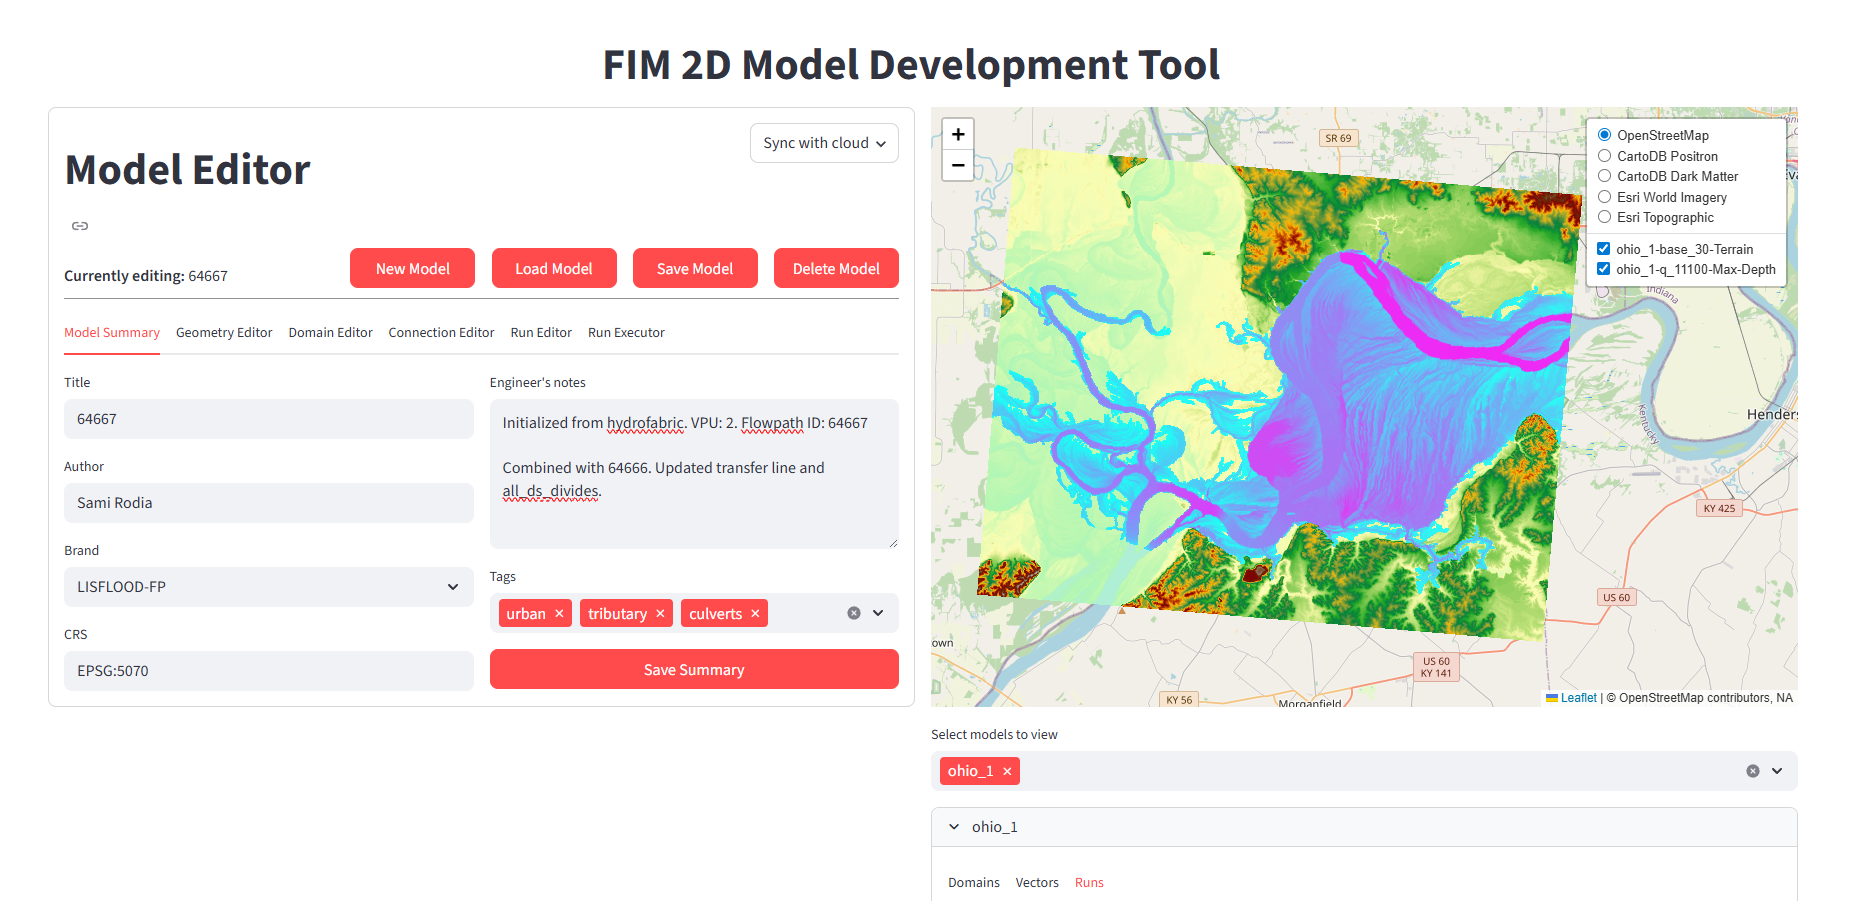
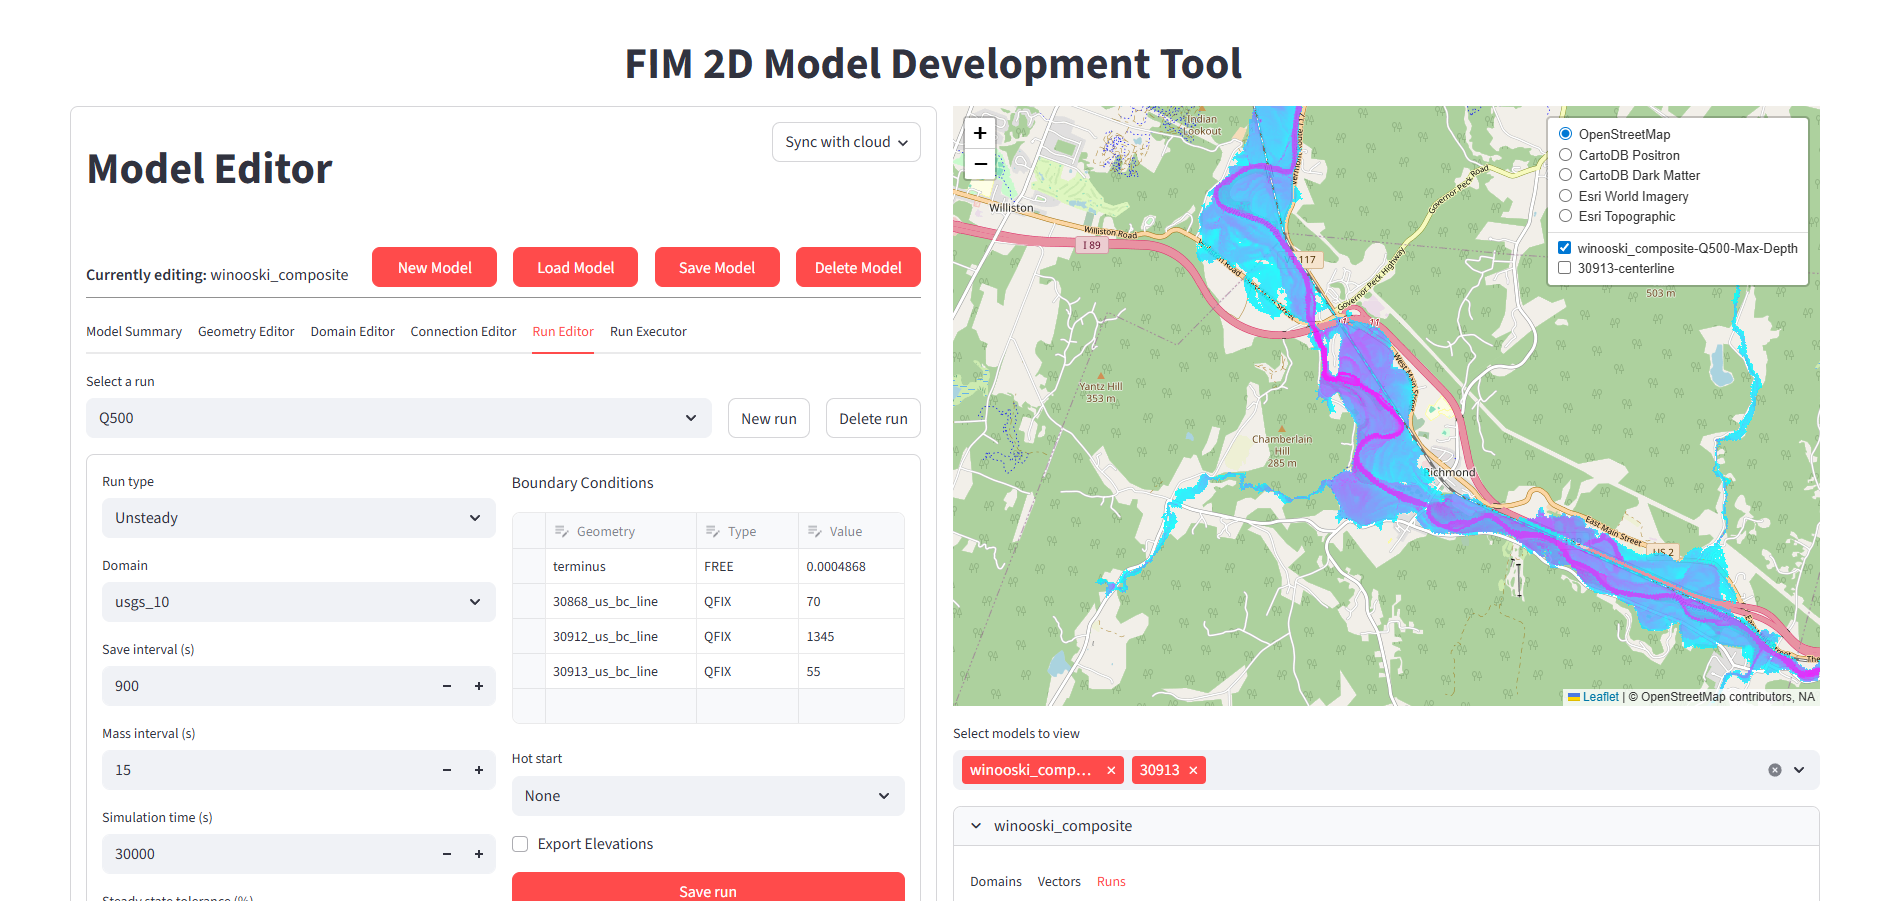
methodology revisions Scott

diff --git a/docs/methodology-report.md b/docs/methodology-report.md
@@ -14,7 +14,7 @@ OWP currently produces nationwide flood inundation maps using HAND (Height Above
 
 Bathtub or level‑pool methods such as HAND treat flooding as a static surface and do not represent flow routing, backwater, or structure‑influenced hydraulics. These methods can produce large biases in inundation area (e.g., >200% error) and recent work calls for avoiding them in decision‑relevant flood‑management practice (Sanders et al., 2024). Recent incorporation of Ripple1D libraries improves physical realism by leveraging 1D hydraulic models and cross‑sectional data from existing studies, but reliance on **prebuilt legacy models** brings their irregularities such as sparse and discontinuous coverage, inconsistent development methodologies, terrain/data mismatches, and outdated inputs (i.e., unknown or superseded data sources) into OWP's operational flood inundation mapping. As a result, Ripple1D can improve local fidelity but adds complexity and coverage gaps.
 
-This report proposes a 2D hydrodynamic reach‑based library approach to address these gaps. The approach builds reach‑level models from scratch through an automated pipeline while preserving the Ripple1D and Flows2FIM operational pattern: pre‑generate per‑reach FIM libraries and mosaic them downstream‑to‑upstream in near real time using nowcast or forecast discharges (NGWPC, n.d.-a, n.d.-b). The key difference is how the libraries are derived—the computational engine is 2D hydrodynamics rather than 1D, and model construction is automated rather than repurposed from legacy studies (See Fig. 1 for visual explanation). Because 2D modeling is computationally intensive, the workflow shifts heavy computation to pre‑processing so forecast‑time assembly is a lightweight selection‑and‑mosaic step rather than a new simulation. 
+This report proposes a 2D hydrodynamic reach‑based library approach to address these gaps. The approach builds reach‑level models from scratch through an automated pipeline while preserving the Ripple1D and Flows2FIM operational pattern: pre‑generate per‑reach FIM libraries and mosaic them downstream‑to‑upstream in near real time using nowcast or forecast discharges (NGWPC, n.d.-a, n.d.-b). The key difference is how the libraries are derived—the computational engine is 2D hydrodynamics rather than 1D, and model construction is automated rather than repurposed from legacy studies (See Fig. 1 for visual explanation). Because 2D modeling is computationally intensive, the workflow shifts heavy computation to pre‑processing so forecast‑time assembly is a lightweight selection‑and‑mosaic step rather than a new simulation.
 
 This report lays out a pilot‑informed, initial, automatable methodology and explains how it was developed, where the most consequential decisions sit, and where uncertainty remains. It documents those decisions and open questions through System Decision Records (SDR), and defines the conceptual framework, automation logic, and operational interfaces needed to implement the approach. Once approved, the methodology will be refined and tested in a prototype area before scaling further.
 
@@ -27,7 +27,7 @@ The intent of the work described in this report is to assess implementation read
 This project sits at the intersection of three mature research threads: **library‑based inundation mapping**, **large‑scale 2D hydrodynamics**, and **automated model setup**. The literature below provides the closest precedents and highlights where our approach diverges.
 
 ### Library‑based inundation mapping (operational precedents)
-The USGS Flood Inundation Mapping (FIM) program defines a **map library** as a set of inundation maps at discrete stages, linked to gages and used operationally for preparedness and response. The USGS process emphasizes repeatable model construction, calibration, and library publication for real‑time use, which is conceptually aligned with our library‑first paradigm (even though it is local and not reach‑based at national scale). This is a strong institutional precedent for the idea that *precomputed libraries + real‑time lookup* can be operationally reliable (U.S. Geological Survey, n.d.-a, n.d.-b).  
+The USGS Flood Inundation Mapping (FIM) program defines a **map library** as a set of inundation maps at discrete stages, linked to gages and used operationally for preparedness and response. The USGS process emphasizes repeatable model construction, calibration, and library publication for real‑time use, which is conceptually aligned with our library‑first paradigm (even though it is local and not reach‑based at national scale). This is a strong institutional precedent for the idea that *precomputed libraries + real‑time lookup* can be operationally reliable (U.S. Geological Survey, n.d.-a, n.d.-b).
 
 ### Continental‑scale 2D forecasting with precomputed libraries (closest analogue)
 The Hurricane Harvey study by Wing et al. (2019) is the closest direct analogue. The authors coupled **Fathom‑US** (a continental‑scale 2D model based on LISFLOOD‑FP) to NOAA forecasts of streamflow, rainfall, and coastal surge. For Harvey, **fluvial inundation was extracted from an existing US‑wide simulation library**, while pluvial and coastal components were simulated for the event. The study produced medium‑term (2–15 day) forecasts and hindcasts, with reported skill around CSI ≈ 0.66 for maximum extent and mean water‑surface error on the order of ~1 m against USGS benchmarks. This work demonstrates that a national 2D library can be operationally coupled to forecasts without crippling lead times. Our approach differs by (1) making the library **reach‑based** (outputs are organized and indexed per reach), (2) emphasizing **downstream stage transfer** between connected reaches, (3) treating library construction as a **per‑reach automation workflow** rather than a single continental model build, and (4) indexing libraries by a **discharge × downstream‑WSEL matrix** rather than return‑period flow bins.
@@ -65,7 +65,7 @@ Under this framework, each reach model consists of a rectangular domain, an infl
 ![Example geometry for a single reach-based model showing inflow, outflow, and stage transfer lines](methodology-report/image2.png)
 *Figure 2. Example geometry for a single reach-based model showing inflow, outflow, and stage transfer lines.*
 
-Operationally, this library framework relies on a simple architecture that mirrors Flows2FIM: (1) **pre‑computed FIM libraries** of rasters indexed by reach, discharge, and downstream stage; (2) a **rating‑curve database** that relates discharge and downstream WSEL to the library indices; and 
+Operationally, this library framework relies on a simple architecture that mirrors Flows2FIM: (1) **pre‑computed FIM libraries** of rasters indexed by reach, discharge, and downstream stage; (2) a **rating‑curve database** that relates discharge and downstream WSEL to the library indices; and
 
 During operations, Flows2FIM assembles these maps by traversing the river network downstream‑to‑upstream and selecting the closest library entry for each reach based on discharge and downstream conditions. This is a lightweight extraction and mosaicking step that runs in seconds without new hydraulic modeling. The separation keeps heavy computation offline and makes operational assembly tractable.
 
@@ -134,7 +134,7 @@ Table 2 lists the summary results of the survey of 2D models and the model selec
 | --- | --- | --- | --- | --- | --- | --- |
 | LISFLOOD-FP | Multiple solvers; some solve shallow-water equations; some use Manning-based formulations | Gridded; automation feasible; broad community patterns | Fast; GPU support for ACC, FV1, DG2 | Linux-friendly; containerizable | Supports hydrograph, fixed inflow, free-flow (valley slope), constant or time-varying WSE; exports WSE and velocity grids; checkpointing | Continue evaluation; strong literature and tooling, good performance |
 | TRITON | Full shallow-water equations (ARoe solver) | Gridded; automation feasible; maturity still developing | Very fast on GPU; weaker on CPU | Linux-friendly; containerizable | Supports hydrograph, free flow, constant WSE, normal slope, Froude number; exports depth/velocity; checkpointing | Continue evaluation; strong physics and GPU speed, less mature |
-| SFINCS | Shallow-water equations with simplified formulation (convective acceleration ignored) | Gridded; HydroMT provides automated setup | Fast for large domains; performance depends on setup | Linux-friendly; containerizable | Boundary conditions supported via HydroMT workflows; standard raster outputs | Secondary candidate; strong automation, needs validation for reach-based rivers |
+| SFINCS | Shallow-water equations with simplified formulation (convective acceleration ignored) | Gridded; HydroMT provides automated setup | Fast for large domains; performance depends on setup | Linux-friendly; containerizable | Boundary conditions supported via HydroMT workflows; standard raster outputs | Continue evaluation; strong automation, needs validation for reach-based rivers |
 | TELEMAC-2D | Shallow-water equations | Mesh-based; may require code-level adjustments | Reported fast; widely used in EU | Linux-capable; containerization possible but non-trivial | Standard hydraulic BCs; IO requires integration work | Not prioritized; higher automation burden |
 | HEC-RAS 2D | Shallow-water equations with sub-grid approach | Mesh-based; GUI-centric | Good for engineering studies; automation burden high | Windows-centric; Linux uncertain | Rich BCs, but IO complex | Removed; automation and data handling risks |
 | RAS 2025 (alpha) | Shallow-water equations | Mesh-based; API not released | Unknown stability | Linux/API uncertain | Unknown | Removed; timeline risk |
@@ -142,41 +142,51 @@ Table 2 lists the summary results of the survey of 2D models and the model selec
 | PNNL Lagrangian | Novel research method | Unclear | Supposedly fast | Unclear | Unclear | Removed; research-grade |
 | MIKE21 / FLO-2D / Delft3D / TUFLOW 3D | Hydrodynamic models | Mixed | Strong but commercial | Licensing constraints | Proprietary tooling | Removed; licensing incompatible |
 
-
-Based on this survey exercise, LISFLOOD-FP, TRITON, and SFINCS remain active candidates. Although final selection is planned after focused benchmark testing of speed, stability, and feature maturity, the pilot development and automation research still required us to land on one model, so that we can develop our tooling around it and stay focus on developing methodology and not on details of different models.
-
-Our initial research showed LISFLOOD-FP to be best candidate and hence we decided to use LISFLOOD-FP for our tooling development. Since our choice of going through with using LISFLOOD-FP we have learned more about SFINCS and the active development that is going on in its ecosystem, this makes SFINCS a very potent candidate and in the future we plan to explore SFINCS further. TRITON as of now is least favorable candidate, mainly because (to do:). 
-
-HEC-RAS faces several challenges when it comes to large-scale cloud-based modeling backed by automation due to:
+As the industry standard hydraulic model, we spent extra time considering the benefits and drawbacks of using HEC-RAS 2D.  HEC-RAS faces several challenges when it comes to large-scale cloud-based modeling backed by automation due to:
 -   Dependency on Windows-based operations
 -   Mesh tooling and instability
 -   Mapping related to sub grid computational approach
 -   Complicated data structures and storage inefficiencies
 
-One of the primary limitations of HEC-RAS for use in the cloud is its reliance on a Windows-based graphical user interface (GUI) for model development. This dependency requires the use of Windows OS components in any automation system, which complicates cloud environments predominantly using (containerized) Linux systems. Although solutions
-like Wine exist to emulate Windows applications on Linux, attempts to port HEC-RAS using Wine have had very limited success, marked by instability and unreliable performance, making it a poor choice. Likewise, mapping operations in HEC-RAS must be conducted within a Windows environment, extending the Windows OS dependency to include post processing.
+One of the primary limitations of HEC-RAS for use in the cloud is its reliance on a Windows-based graphical user interface (GUI) for model development. This dependency requires the use of Windows OS components in any automation system, which complicates cloud environments predominantly using (containerized) Linux systems. Although solutions like Wine exist to emulate Windows applications on Linux, attempts to port HEC-RAS using Wine have had very limited success, marked by instability and unreliable performance, making it a poor choice. Likewise, mapping operations in HEC-RAS must be conducted within a Windows environment, extending the Windows OS dependency to include post processing.
 
 Another significant hurdle is a lack of automated mesh tools available outside the HEC-RAS GUI. Mesh generation and refinement are crucial steps in hydraulic modeling, and the computations are highly sensitive to mesh-related issues. Mesh instability is a commonly known issue with HEC-RAS models, requiring manual debugging, which can be time-consuming and labor-intensive. The degree to which manual intervention would be required adds significant risk to project delivery.
 
 Computationally, HEC-RAS utilizes a sub grid approach, which involves subdividing computational cells into smaller elements to capture detailed hydraulic information and reduce simulation time through caching of complex cell properties. This computational approach creates challenges from traditional finite volume methods in map production, as volume accounting is more complex. As a result, there are a handful of known issues with flood rasters created using HEC-RAS software, including cupping and disconnected hydraulic reaches, which would require an additional post-processing step prior to delivery.
 
-With respect to data, the complexity of HEC-RAS\'s data structures poses significant challenges for automation. The software uses a variety of file formats, including text files, binary files, HDF files, and DSS files. This dependency complicates data management and automation, as different tools and processes are required to handle each file type. A result of this approach is data duplication across files: resulting in unnecessary redundancy that increases the storage requirements for simulations, inflating data size and complicating data handling in the cloud.
+With respect to data, the complexity of HEC-RAS' data structures poses significant challenges for automation. The software uses a variety of file formats, including text files, binary files, HDF files, and DSS files. This dependency complicates data management and automation, as different tools and processes are required to handle each file type. A result of this approach is data duplication across files: resulting in unnecessary redundancy that increases the storage requirements for simulations, inflating data size and complicating data handling in the cloud.
 
 In September of 2024, USACE released the alpha version of a major update to HEC-RAS (RAS 2025). According to release notes and the HEC newsletter, the new version of software has been designed to incorporate an API and offer a Linux build for headless and containerized operations. At the time of the writing of this narrative, these features have not been published, and the Beta version has likewise not been released. While this version promises to overcome some of the cloud deployment issues noted above, it does not address the mesh, sub grid, and data issues identified as areas of risk for use in this project.
 
 Collectively, these issues highlight the challenges HEC-RAS faces in transitioning to large-scale cloud-based modeling backed by automation.
 
+Based on this survey, LISFLOOD-FP, TRITON, and SFINCS remain active candidates. All three models offer adequate boundary condition control, GPU acceleration, linux execution, and straightforward automation. No reasons were identified that would disqualify any of these three models. As such, final model selection will depend on a benchmarked testing of speed and stability at a larger spatial scale. Other factors that will be considered include feature maturity, body of scientific literature and user communiyt size, and accesability of model developers.
+
+While final model selection has not been completed, a model was needed for pilot modeling.  In our initial model review, it appeared that only LISFLOOD-FP would have sufficient boundary condition control for our method to work, and we pursued pilot modeling in LISFLOOD-FP. Since then, we have learned more about SFINCS and TRITON, and we determined that they would meet out needs. Furthermore, we learned of the active development that is going on in the SFINCS ecosystem. This makes SFINCS a promising candidate, and in the future we plan to explore SFINCS further. TRITON, as of now, is the least preferred option due to its more limited feature set than the other two models.
+
+
 ### Model Development WebApp
-To move from the conceptual framework to a testable methodology, this phase required some lose tooling that could fast track building many reach models for testing and provide somewhat consistency in model development. For this purpose, a draft StreamLit Python App was created to automate model development. This app was used throughout the testing and iteration process.
-
-The pilot app was intentionally loose and focused on repeatable preprocessing and setup steps such as generating reach domains, inflow and outflow boundary geometries, stage transfer lines (STLs), and aligned terrain/roughness rasters. It also templated run configurations for discharge and downstream-stage combinations so cases could be regenerated quickly as decision rules changed. During methodology development, design assumptions were still moving; a thin, modular toolchain allowed fast iteration without spending too much time early on coding solutions. It also made comparisons across test cases more defensible because geometry and preprocessing logic were applied consistently.
-
-Published large-scale automation efforts (for example, HydroMT-SFINCS workflows in NHESS) support this direction and provide external precedent that 2D setup can be automated when ruleset is explicit and reproducible.
-
-\<narrative on functionality of the web app either here or in appendix>
+To move from the conceptual framework to a testable methodology, this phase required some lose tooling that could fast track building many reach models for testing and provide somewhat consistency in model development. For this purpose, a draft Streamlit Python App was created to automate model development. This app was used throughout the testing and iteration process.
 
 ![Pilot tooling landing page / workflow overview](methodology-report/image7.png)
 *Figure 6. Pilot WebApp developed to automate model construction and review.*
+
+During methodology development, design assumptions were still moving; a thin, modular toolchain allowed fast iteration without spending too much time early on coding solutions. Getting this tool out of a scripting environment also allowed the team to engage hydraulic engineers to assist in model development and validation. It also made comparisons across test cases more defensible because geometry and preprocessing logic were applied consistently.
+
+The WebApp had several core features
+ - Import hydrofabric data for a specific reach (centerline, divide, adjacent reaches, etc)
+ - Create a grid-aligned model domain
+ - Download USGS 3DEP data
+ - Download MRLC LULC data and convert to Manning's roughness
+ - Write LISFLOOD-FP model files
+ - Track all model and run metadata
+ - Transfer water surface elevations between models
+ - Generate stage transfer lines
+ - Execute LISFLOOD-FP models in a lightweight, containerized environment
+
+While code was kept intentionally lightweight and flexible during this pilot study, this work give the project team a headstart in automation. Many core functions, such as hydrofabric subsetting, data downloads, grid development, and model post-processing can be directly copied to the next stage of this project and may only require modest revisions to optimize performance. The model metadata schema has a few lessons learned, but will only require minor modifications for the next stage. A Docker container for LISFLOOD-FP is ready for use when running models asynchronously in the cloud.
+
+While the intention of this WebApp was to aid in methodology development, we see it having continued value for the rest of this project. Two tooling gaps identified during the Ripple1d project were the ability to review models and rerun models after making modifications. In Ripple1D, QGIS map templates were used to aid in model review. However, syncing the large datasets supporting these maps between the cloud and a client machine was cumbersome. Furthermore, QGIS is unable to view data from certain file formats (e.g., text, json, etc). By developing this WebApp, we layed the groundwork for a model review platform that can display all relevant model data without large downloads from a convenient, web-based portal. Beyond model review, the WebApp allows the forecasting community a channel to modify models, update run parameters, and request new map generation.  If model issues are detected after the bulk of production occurs, erroneous models can be corrected in the app, re-run, and have their FIM libraries updated.
 
 ### System Decision Records (SDR)
 During initial pilot development, the WebApp made it possible to run many more cases quickly, and the main bottleneck shifted from model setup to decision governance: avoiding cycles on repeated questions and keeping rationale tied to evidence as edge cases accumulated.
@@ -210,8 +220,8 @@ Terminology used in this report follows definitions provided in 'Appendix B - Gl
 ### Symbology
 The figures in this report use a consistent symbology. This is defined once here to avoid repeating legends in every figure.
 
-\<picture of symbology, might be as a table>
-Figure 7.
+![Symbology](methodology-report/symbology.jpeg)
+Figure 7. Symbology used for pilot modeling maps
 ### Pilot Cases
 Pilot locations were selected to stress the methodology and different design decisions across contrasting hydraulic and physiographic conditions rather than to maximize geographic count. The set includes small rural systems, steep headwaters, urban/structure-influenced corridors, very wide floodplains, arid channels, different shape confluences or river networks, and lake/coastal terminal settings. The baseline methodology as well targeted deviation experiments were then executed against these cases to discover and isolate failures modes such as WSEL mismatch at tie-ins, edge leakage, inflow artifacts, etc. This is inline with SDR workflow described above.
 
